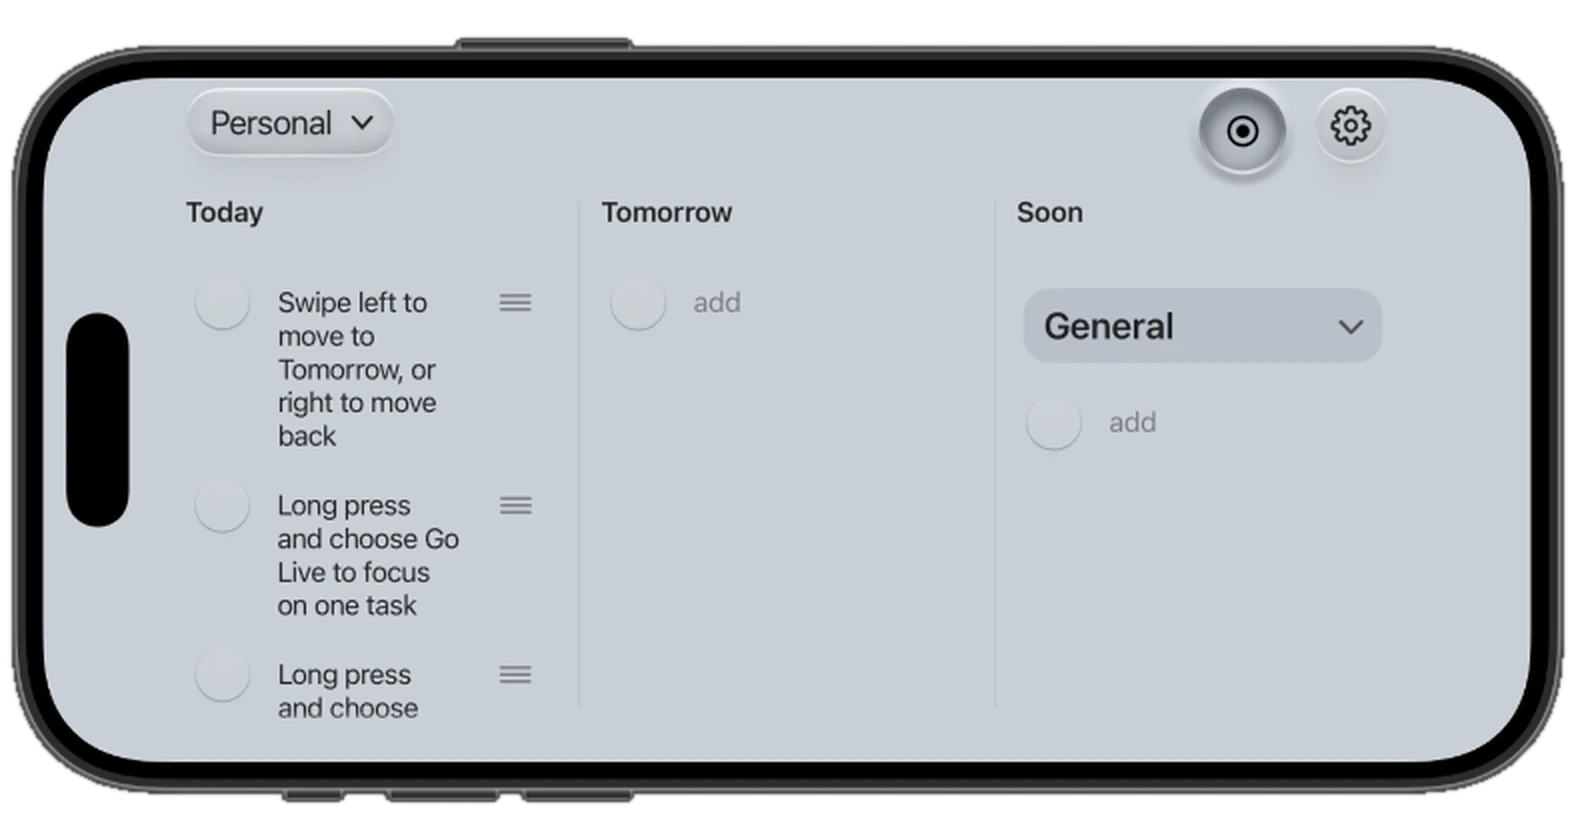
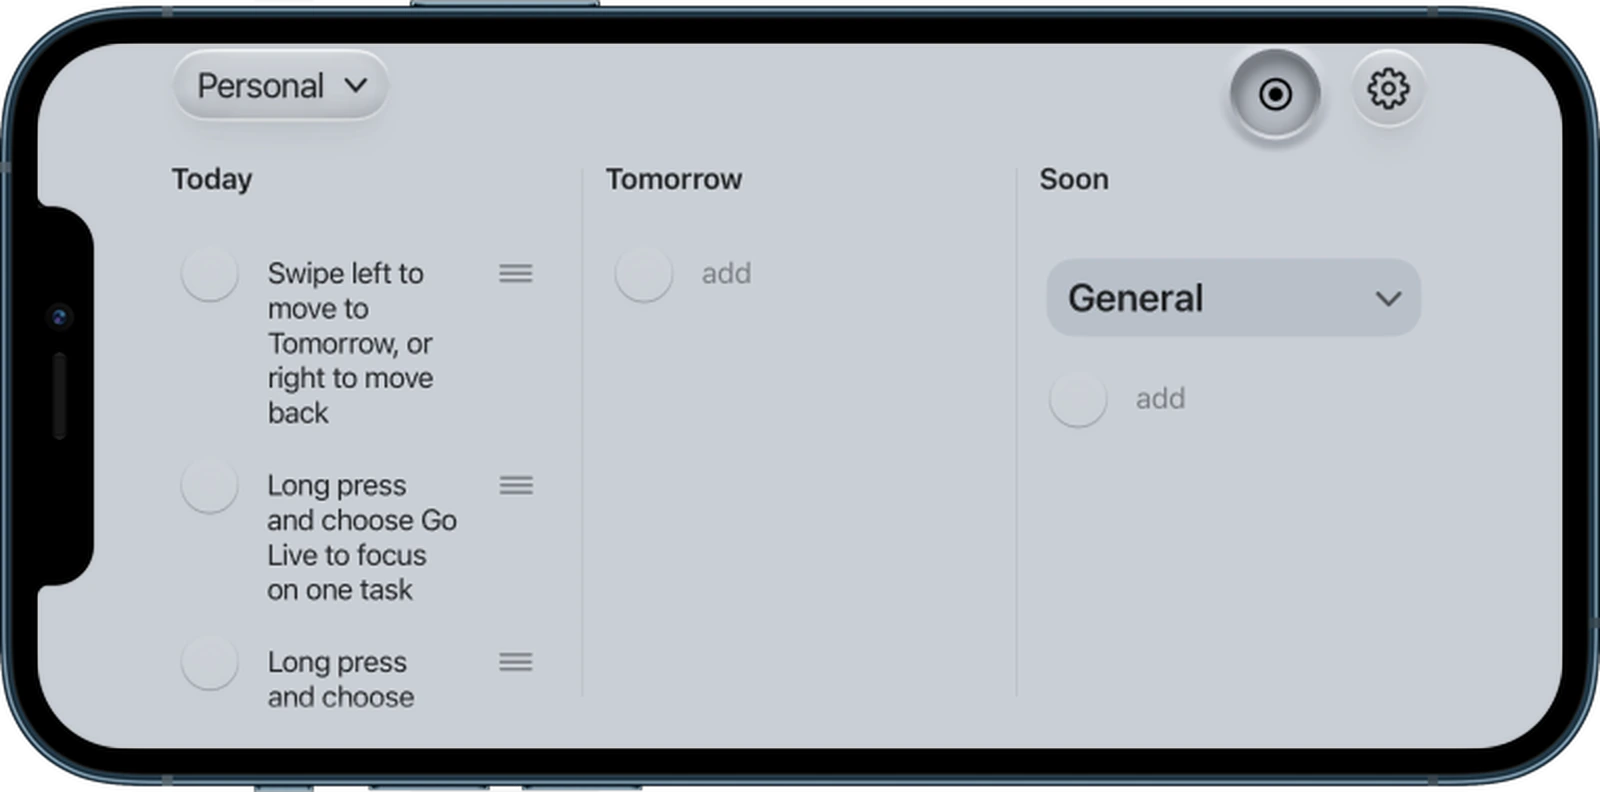
to.morrow 2d2: landscape phone uses the portrait phone frame (turned), copy to its left

diff --git a/public/to.morrow2d2.html b/public/to.morrow2d2.html
@@ -768,10 +768,11 @@
     .ph2 strong { color: var(--text-primary); font-weight: 500; font-size: 14.4px; line-height: 1.4; }
     .ph2 p { margin: 0; max-width: 56ch; }
     .ph2--land { aspect-ratio: 16 / 7; }
-    .land-shot { margin: var(--block-gap) auto 0; width: min(100%, 760px); }
-    .land-shot img { display: block; width: 100%; height: auto; filter: drop-shadow(0 14px 24px rgba(40, 40, 90, 0.25)); }
-    .land-shot figcaption { margin-top: 18px; font-size: 14px; line-height: 1.5; color: var(--text-secondary); text-align: center; }
-    .land-shot figcaption strong { display: block; color: var(--text-primary); font-weight: 500; margin-bottom: 2px; }
+    /* Landscape phone: same frame as the portrait phone, turned; copy to its left. */
+    .land-row { display: grid; grid-template-columns: minmax(0, 1fr) minmax(0, 1.9fr); gap: clamp(20px, 3vw, 48px); align-items: center; margin-top: var(--block-gap); }
+    .land-shot { margin: 0; }
+    .land-shot img { display: block; width: 100%; height: auto; }
+    @media (max-width: 860px) { .land-row { grid-template-columns: minmax(0, 1fr); } }
     .ph2--phone { aspect-ratio: 9 / 19; width: min(100%, 220px); margin-inline: auto; }
     .ph2--wide { aspect-ratio: 16 / 9; }
     .ph2--quote { align-items: flex-start; text-align: left; justify-content: center; }
@@ -3116,7 +3117,7 @@
             <p class="stagger-copy" data-i18n-html="f2b-text">Wischen ist die <b class="kw">natürlichste Geste am Telefon</b> — schneller als jedes Menü und direkter als Ausschneiden und Einfügen. Jede Aufgabe liegt in genau einer von drei Listen: Heute, Morgen, Bald. Ein Wisch schiebt sie weiter, einer zurück — <b class="kw">in jede Richtung</b>, bis in die Live-Aufgabe. Die Listen sind keine Ordner: Sie ergeben sich aus dem Datum der Aufgabe, deshalb braucht es keinen nächtlichen Rollover, und die Liste stimmt auch nach einer Nacht ohne App.</p>
           </div>
         </div>
-        <figure class="land-shot"><img src="/images/to.morrow/landscape-mockup.webp" width="1588" height="828" loading="lazy" alt="Die App im Querformat: Heute, Morgen und Bald nebeneinander" /><figcaption><strong>Querformat: alle drei Listen auf einmal</strong> Im Querformat sind Heute, Morgen und Bald gleichzeitig offen. Du siehst alle To-dos eines Workspaces auf einen Blick.</figcaption></figure>
+        <div class="land-row"><div class="land-body"><h3 class="feature-title">Querformat: alle drei Listen auf einmal</h3><p class="stagger-copy">Im Querformat sind Heute, Morgen und Bald gleichzeitig offen. Du siehst alle To-dos eines Workspaces auf einen Blick.</p></div><figure class="land-shot"><img src="/images/to.morrow/landscape-mockup.webp" width="1600" height="792" loading="lazy" alt="Die App im Querformat: Heute, Morgen und Bald nebeneinander" /></figure></div>
 
 
 
